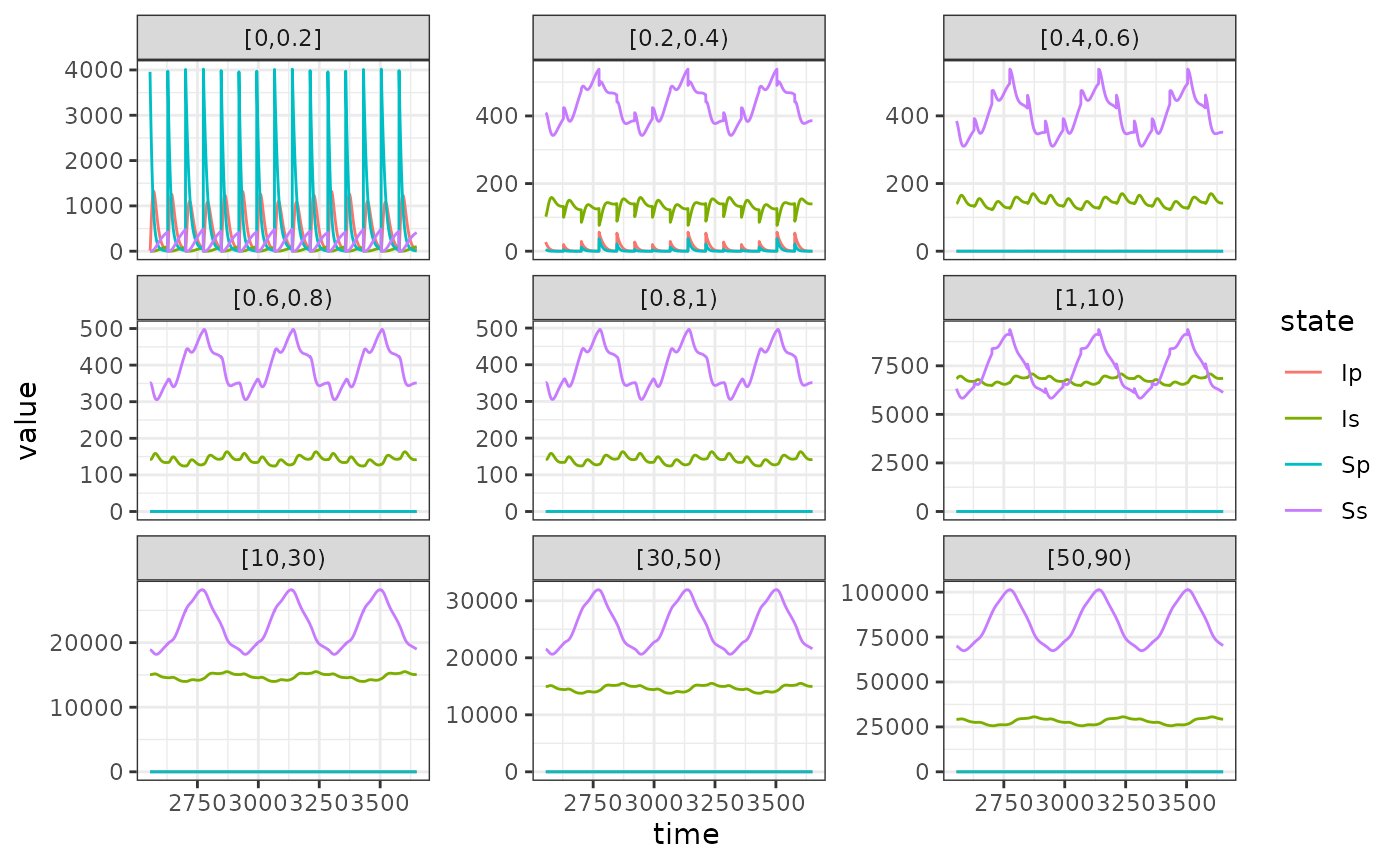
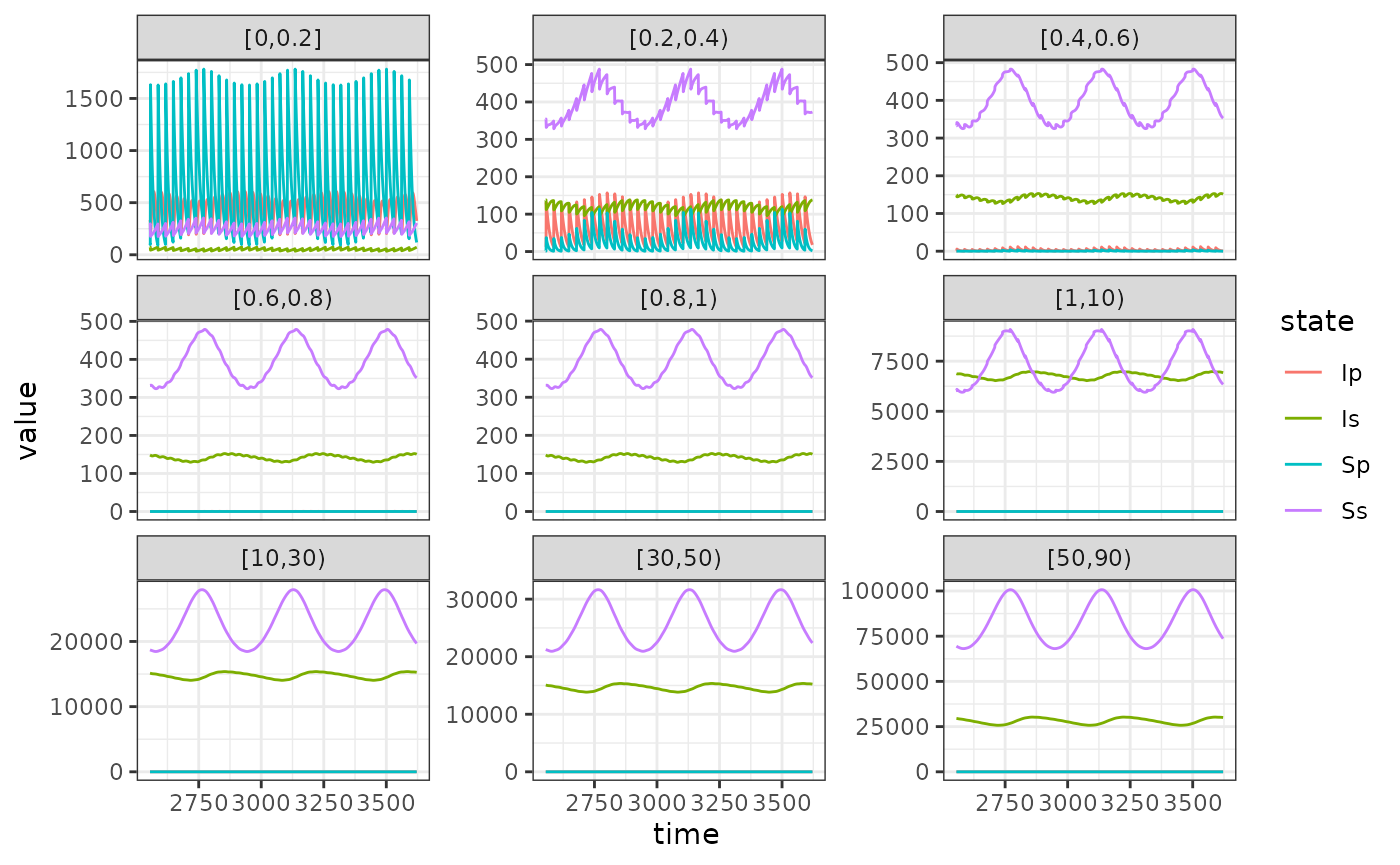
Deploying to gh-pages from @ IsaacStopard/RSVsim@e1ab41a15feb3779cb48505ba214d867a2499626 🚀

diff --git a/reference/run_model.html b/reference/run_model.html
@@ -45,7 +45,13 @@ Cohorts are aged at time intervals of the smallest age group given in <code>para
 
     <div class="section level2">
     <h2 id="ref-usage">Usage<a class="anchor" aria-label="anchor" href="#ref-usage"></a></h2>
-    <div class="sourceCode"><pre class="sourceCode r"><code><span><span class="fu">run_model</span><span class="op">(</span><span class="va">parameters</span>, max_t <span class="op">=</span> <span class="fl">2000</span>, dt <span class="op">=</span> <span class="fl">0.25</span>, init_conds <span class="op">=</span> <span class="cn">NULL</span><span class="op">)</span></span></code></pre></div>
+    <div class="sourceCode"><pre class="sourceCode r"><code><span><span class="fu">run_model</span><span class="op">(</span></span>
+<span>  <span class="va">parameters</span>,</span>
+<span>  max_t <span class="op">=</span> <span class="fl">2000</span>,</span>
+<span>  cohort_step_size <span class="op">=</span> <span class="fl">365.25</span><span class="op">/</span><span class="fl">12</span>,</span>
+<span>  dt <span class="op">=</span> <span class="fl">0.25</span>,</span>
+<span>  init_conds <span class="op">=</span> <span class="cn">NULL</span></span>
+<span><span class="op">)</span></span></code></pre></div>
     </div>
 
     <div class="section level2">

diff --git a/articles/Introduction.html b/articles/Introduction.html
@@ -153,6 +153,7 @@ be susceptible to their primary infection.</p>
 <div class="sourceCode" id="cb4"><pre class="downlit sourceCode r">
 <code class="sourceCode R"><span><span class="va">out</span> <span class="op">&lt;-</span> <span class="fu">RSVsim</span><span class="fu">::</span><span class="fu"><a href="../reference/run_model.html">run_model</a></span><span class="op">(</span>parameters <span class="op">=</span> <span class="va">parameters</span>,</span>
 <span>                         max_t <span class="op">=</span> <span class="fl">3650</span>, <span class="co"># maximum time to run the model for</span></span>
+<span>                         cohort_step_size <span class="op">=</span> <span class="fl">365.25</span><span class="op">/</span><span class="fl">12</span>,</span>
 <span>                         dt <span class="op">=</span> <span class="fl">0.5</span>, <span class="co"># time step to get model outputs for</span></span>
 <span>                         init_conds <span class="op">=</span> <span class="cn">NULL</span><span class="op">)</span></span>
 <span></span>
